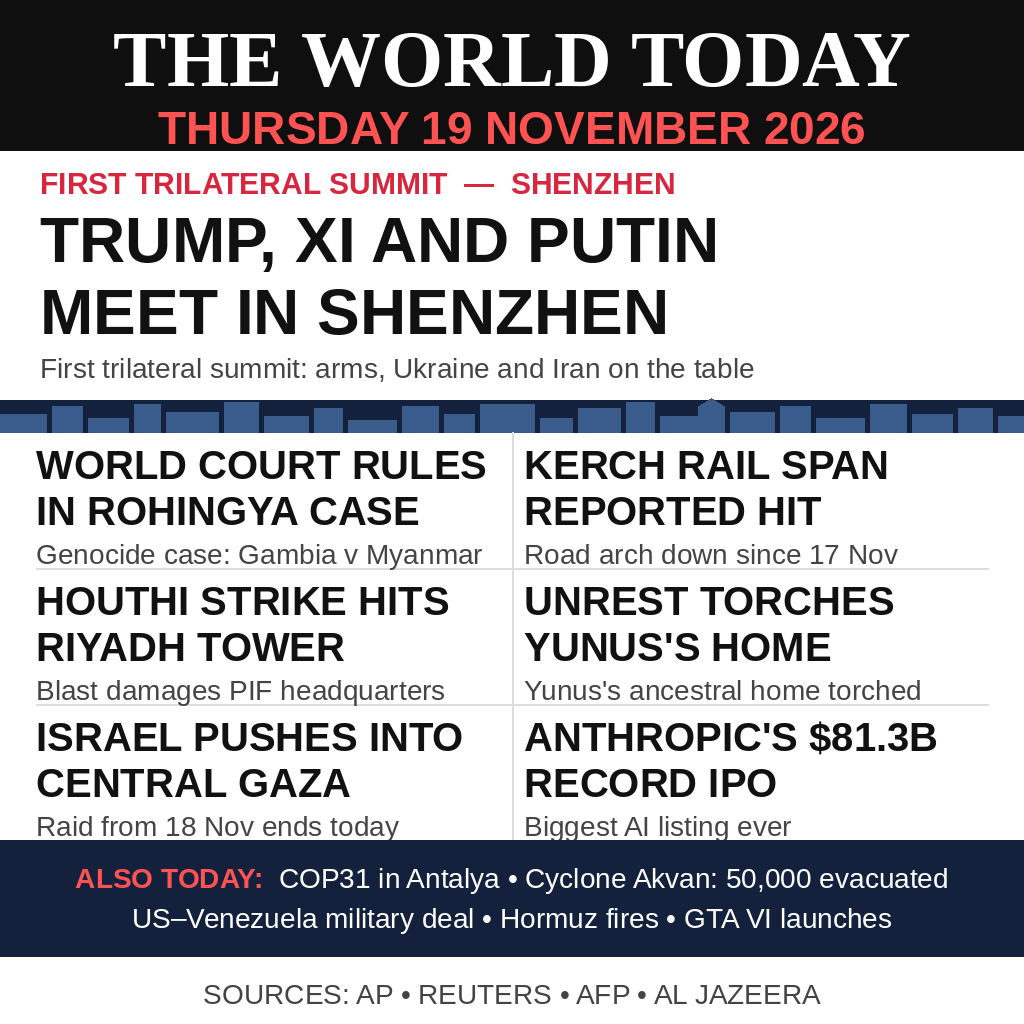
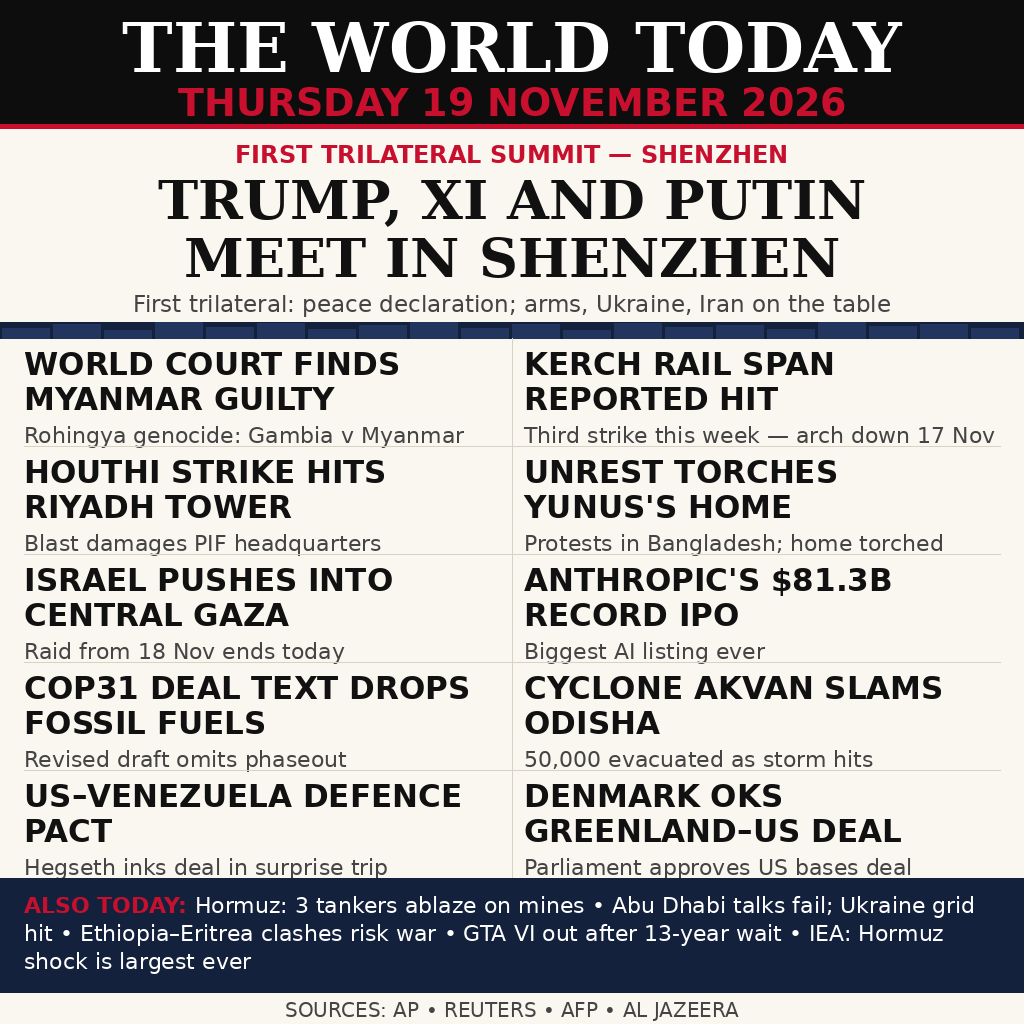
Version 3: date fixes + Denmark grid story

diff --git a/main.ts b/main.ts
@@ -2,7 +2,7 @@ import { copyFileSync, mkdirSync } from "node:fs";
 import { dirname, join } from "node:path";
 import { fileURLToPath } from "node:url";
 
-const here = dirname(fileURLToPath(import.meta.url));
-const outDir = process.env.MAKEFUN_OUTPUT_DIR || "/output";
+const outDir = process.env.MAKEFUN_OUTPUT_DIR ?? "/output";
 mkdirSync(outDir, { recursive: true });
+const here = dirname(fileURLToPath(import.meta.url));
 copyFileSync(join(here, "entry.png"), join(outDir, "entry.png"));

diff --git a/render.py b/render.py
@@ -1,181 +1,185 @@
 #!/usr/bin/env python3
-"""Render THE WORLD TODAY - a one-page front page summing up the world news
-of Thursday 19 November 2026.
+"""Draw the v3 poster: THE WORLD TODAY, Thursday 19 November 2026.
 
-Drawn with Pillow only: flat colours, simple shapes, real text. No network,
-no AI image generator, so no garbled text. Deterministic: running it twice
-writes byte-identical output.
-
-Design: built to be legible at ~300 px, the size the judge sees. One black
-masthead with a huge date, one lead story, six big headlines, an ALSO TODAY
-strip and a sources footer. Nothing smaller than 28 px anywhere.
+Hybrid design: v1's information density with v2's clean hierarchy.
+18 stories: 1 lead + 10 grid stories + 6 in the ALSO TODAY strip.
+Headlines stay readable at 300 px, but the detail v2 cut is back.
 """
-
 import os
-
 from PIL import Image, ImageDraw, ImageFont
 
-W = H = 1024
-
+W, H = 1024, 1024
+PAPER = (250, 247, 240)
 INK = (17, 17, 17)
-RED = (215, 38, 61)
-DATE_RED = (255, 82, 82)
+RED = (200, 16, 46)
 NAVY = (20, 33, 61)
-NAVY_LIGHT = (58, 92, 140)
+NAVY_LT = (34, 53, 94)
 GRAY = (68, 68, 68)
-RULE = (221, 221, 221)
+RULE = (216, 210, 196)
 WHITE = (255, 255, 255)
-BLACK = (15, 15, 15)
+BLACK = (13, 13, 13)
 
-FONT_DIR = "/usr/share/fonts/truetype/liberation"
-
-
-def load(name, size):
-    return ImageFont.truetype(os.path.join(FONT_DIR, name), size)
+SERIF_B = "/usr/share/fonts/truetype/dejavu/DejaVuSerif-Bold.ttf"
+SANS = "/usr/share/fonts/truetype/dejavu/DejaVuSans.ttf"
+SANS_B = "/usr/share/fonts/truetype/dejavu/DejaVuSans-Bold.ttf"
 
 
-def serif_b(size):
-    return load("LiberationSerif-Bold.ttf", size)
+def font(path, size):
+    return ImageFont.truetype(path, size)
 
 
-def sans_b(size):
-    return load("LiberationSans-Bold.ttf", size)
-
-
-def sans(size):
-    return load("LiberationSans-Regular.ttf", size)
-
-
-def wrap(draw, text, fnt, max_w):
-    """Greedy word wrap; returns a list of lines, each at most max_w wide."""
-    words = text.split()
+def wrap(text, fnt, max_w):
+    """Greedy word wrap; returns a list of lines."""
     lines, cur = [], ""
-    for word in words:
+    for word in text.split():
         trial = (cur + " " + word).strip()
-        if draw.textlength(trial, font=fnt) <= max_w or not cur:
+        if fnt.getlength(trial) <= max_w:
             cur = trial
         else:
-            lines.append(cur)
+            if cur:
+                lines.append(cur)
             cur = word
     if cur:
         lines.append(cur)
     return lines
 
 
-def centered(draw, y, text, fnt, fill):
-    x = (W - draw.textlength(text, font=fnt)) / 2
-    draw.text((x, y), text, font=fnt, fill=fill)
+def wrap_tokens(tokens, fnt_plain, fnt_bold, max_w):
+    """Wrap (word, bold?) tokens; returns lines of tokens."""
+    lines, cur, cur_w = [], [], 0.0
+    for word, bold in tokens:
+        fnt = fnt_bold if bold else fnt_plain
+        w = fnt.getlength(word)
+        space = fnt_plain.getlength(" ") if cur else 0.0
+        if cur and cur_w + space + w > max_w:
+            lines.append(cur)
+            cur, cur_w = [(word, bold)], w
+        else:
+            cur.append((word, bold))
+            cur_w += space + w
+    if cur:
+        lines.append(cur)
+    return lines
 
 
-def masthead(draw):
-    draw.rectangle([0, 0, W, 150], fill=BLACK)
-    centered(draw, 14, "THE WORLD TODAY", serif_b(80), WHITE)
-    centered(draw, 102, "THURSDAY 19 NOVEMBER 2026", sans_b(46), DATE_RED)
+LEAD_KICKER = "FIRST TRILATERAL SUMMIT — SHENZHEN"
+LEAD_HEAD = ["TRUMP, XI AND PUTIN", "MEET IN SHENZHEN"]
+LEAD_SUB = "First trilateral: peace declaration; arms, Ukraine, Iran on the table"
 
-
-def lead(draw):
-    # Kicker, two-line headline, one short sub-line.
-    draw.text((40, 166), "FIRST TRILATERAL SUMMIT  \u2014  SHENZHEN",
-              font=sans_b(30), fill=RED)
-    draw.text((40, 204), "TRUMP, XI AND PUTIN", font=sans_b(64), fill=INK)
-    draw.text((40, 276), "MEET IN SHENZHEN", font=sans_b(64), fill=INK)
-    draw.text((40, 352),
-              "First trilateral summit: arms, Ukraine and Iran on the table",
-              font=sans(28), fill=GRAY)
-
-
-def skyline(draw):
-    # Simple city silhouette strip between the lead and the story grid.
-    draw.rectangle([0, 400, W, 432], fill=NAVY)
-    towers = [
-        (0, 46, 18), (52, 30, 26), (88, 40, 14), (134, 26, 28),
-        (166, 52, 20), (224, 34, 30), (264, 44, 16), (314, 28, 24),
-        (348, 48, 12), (402, 36, 26), (444, 30, 18), (480, 54, 28),
-        (540, 32, 14), (578, 42, 24), (626, 28, 30), (660, 40, 16),
-        (730, 44, 20), (780, 30, 26), (816, 48, 14), (870, 36, 28),
-        (912, 40, 18), (958, 34, 24), (998, 26, 16),
-    ]
-    for x, w, h in towers:
-        draw.rectangle([x, 432 - h, x + w, 432], fill=NAVY_LIGHT)
-    # One tapered tower, the tallest shape on the skyline.
-    draw.polygon([(698, 432), (698, 406), (711, 398), (724, 406), (724, 432)],
-                 fill=NAVY_LIGHT)
-
-
-GRID_TOP = 432
-GRID_BOTTOM = 840
-ROW_H = 136
-COL_X = (36, 524)
-CELL_W = 464
-
-# (headline, one short sub-line) - every headline is a real 19 Nov 2026 event.
-STORIES = [
-    ("WORLD COURT RULES IN ROHINGYA CASE", "Genocide case: Gambia v Myanmar"),
-    ("KERCH RAIL SPAN REPORTED HIT", "Road arch down since 17 Nov"),
+GRID = [
+    ("WORLD COURT FINDS MYANMAR GUILTY", "Rohingya genocide: Gambia v Myanmar"),
+    ("KERCH RAIL SPAN REPORTED HIT", "Third strike this week — arch down 17 Nov"),
     ("HOUTHI STRIKE HITS RIYADH TOWER", "Blast damages PIF headquarters"),
-    ("UNREST TORCHES YUNUS'S HOME", "Yunus's ancestral home torched"),
+    ("UNREST TORCHES YUNUS'S HOME", "Protests in Bangladesh; home torched"),
     ("ISRAEL PUSHES INTO CENTRAL GAZA", "Raid from 18 Nov ends today"),
     ("ANTHROPIC'S $81.3B RECORD IPO", "Biggest AI listing ever"),
+    ("COP31 DEAL TEXT DROPS FOSSIL FUELS", "Revised draft omits phaseout"),
+    ("CYCLONE AKVAN SLAMS ODISHA", "50,000 evacuated as storm hits"),
+    ("US–VENEZUELA DEFENCE PACT", "Hegseth inks deal in surprise trip"),
+    ("DENMARK OKS GREENLAND–US DEAL", "Parliament approves US bases deal"),
 ]
 
+STRIP_ITEMS = [
+    "Hormuz: 3 tankers ablaze on mines",
+    "Abu Dhabi talks fail; Ukraine grid hit",
+    "Ethiopia–Eritrea clashes risk war",
+    "GTA VI out after 13-year wait",
+    "IEA: Hormuz shock is largest ever",
+]
 
-def grid(draw):
-    # Rules between the cells.
-    for y in (568, 704):
-        draw.line([(36, y), (988, y)], fill=RULE, width=2)
-    draw.line([(512, GRID_TOP), (512, GRID_BOTTOM)], fill=RULE, width=2)
-    head_font = sans_b(40)
-    sub_font = sans(28)
-    for i, (headline, sub) in enumerate(STORIES):
-        x = COL_X[i % 2]
-        top = GRID_TOP + (i // 2) * ROW_H
-        lines = wrap(draw, headline, head_font, CELL_W)
-        assert len(lines) <= 2, "headline needs more than 2 lines: %r" % headline
-        y = top + 10
-        for line in lines:
-            draw.text((x, y), line, font=head_font, fill=INK)
-            y += 46
-        assert draw.textlength(sub, font=sub_font) <= CELL_W, \
-            "sub-line too long: %r" % sub
-        draw.text((x, top + 106), sub, font=sub_font, fill=GRAY)
-
-
-def also_today(draw):
-    draw.rectangle([0, 840, W, 956], fill=NAVY)
-    label = "ALSO TODAY:  "
-    line1 = "COP31 in Antalya \u2022 Cyclone Akvan: 50,000 evacuated"
-    line2 = "US\u2013Venezuela military deal \u2022 Hormuz fires \u2022 GTA VI launches"
-    label_font = sans_b(28)
-    body_font = sans(28)
-    rows = (
-        (862, "ALSO TODAY:  ", line1),
-        (902, "", line2),
-    )
-    for y, label, rest in rows:
-        lw = draw.textlength(label, font=label_font)
-        rw = draw.textlength(rest, font=body_font)
-        assert lw + rw <= 952, "also-today line too long: %r" % rest
-        x = (W - lw - rw) / 2
-        draw.text((x, y), label, font=label_font, fill=DATE_RED)
-        draw.text((x + lw, y), rest, font=body_font, fill=WHITE)
-
-
-def footer(draw):
-    centered(draw, 978, "SOURCES: AP \u2022 REUTERS \u2022 AFP \u2022 AL JAZEERA",
-             sans(28), GRAY)
+FOOTER = "SOURCES: AP • REUTERS • AFP • AL JAZEERA"
 
 
 def main():
-    img = Image.new("RGB", (W, H), WHITE)
-    draw = ImageDraw.Draw(img)
-    masthead(draw)
-    lead(draw)
-    skyline(draw)
-    grid(draw)
-    also_today(draw)
-    footer(draw)
-    here = os.path.dirname(os.path.abspath(__file__))
-    img.save(os.path.join(here, "entry.png"), optimize=True)
+    img = Image.new("RGB", (W, H), PAPER)
+    d = ImageDraw.Draw(img)
+
+    # --- masthead ---
+    d.rectangle([0, 0, W, 124], fill=BLACK)
+    d.text((W // 2, 8), "THE WORLD TODAY", font=font(SERIF_B, 68),
+           fill=WHITE, anchor="ma")
+    d.text((W // 2, 80), "THURSDAY 19 NOVEMBER 2026", font=font(SANS_B, 38),
+           fill=RED, anchor="ma")
+    d.rectangle([0, 124, W, 128], fill=RED)
+
+    # --- lead story ---
+    d.text((W // 2, 140), LEAD_KICKER, font=font(SANS_B, 24),
+           fill=RED, anchor="ma")
+    f_lead = font(SERIF_B, 54)
+    d.text((W // 2, 168), LEAD_HEAD[0], font=f_lead, fill=INK, anchor="ma")
+    d.text((W // 2, 226), LEAD_HEAD[1], font=f_lead, fill=INK, anchor="ma")
+    d.text((W // 2, 290), LEAD_SUB, font=font(SANS, 23), fill=GRAY, anchor="ma")
+
+    # --- skyline silhouette divider ---
+    d.rectangle([0, 322, W, 338], fill=NAVY)
+    heights = [10, 14, 8, 16, 11, 15, 9, 13, 16, 10,
+               14, 8, 15, 11, 13, 9, 16, 12, 14, 10]
+    bw = W // len(heights)
+    for i, hgt in enumerate(heights):
+        x0 = i * bw + 2
+        d.rectangle([x0, 338 - hgt, x0 + bw - 4, 338], fill=NAVY_LT)
+
+    # --- grid: 2 columns x 5 rows ---
+    grid_top, row_h = 338, 108
+    col_x = [24, 524]
+    col_w = 476
+    f_head = font(SANS_B, 31)
+    f_sub = font(SANS, 22)
+    for idx, (head, sub) in enumerate(GRID):
+        r, c = divmod(idx, 2)
+        x0 = col_x[c]
+        y0 = grid_top + r * row_h
+        lines = wrap(head, f_head, col_w)
+        assert len(lines) <= 2, f"headline wraps to {len(lines)}: {head}"
+        y = y0 + 8
+        for line in lines:
+            d.text((x0, y), line, font=f_head, fill=INK, anchor="la")
+            y += 35
+        assert f_sub.getlength(sub) <= col_w, f"sub too long: {sub}"
+        d.text((x0, y + 6), sub, font=f_sub, fill=GRAY, anchor="la")
+        assert y + 6 + 22 <= y0 + row_h, f"cell overflows: {head}"
+    # dividers
+    for r in range(1, 5):
+        y = grid_top + r * row_h
+        d.line([(24, y), (1000, y)], fill=RULE, width=1)
+    d.line([(512, grid_top), (512, grid_top + 5 * row_h)], fill=RULE, width=1)
+
+    # --- ALSO TODAY strip ---
+    strip_top, strip_h = 878, 114
+    d.rectangle([0, strip_top, W, strip_top + strip_h], fill=NAVY)
+    tokens = []
+    for word in "ALSO TODAY:".split():
+        tokens.append((word, True))
+    for item in STRIP_ITEMS:
+        for word in item.split():
+            tokens.append((word, False))
+        tokens.append(("•", False))
+    tokens = tokens[:-1]  # drop trailing bullet
+    f_strip = font(SANS, 22)
+    f_strip_b = font(SANS_B, 22)
+    lines = wrap_tokens(tokens, f_strip, f_strip_b, W - 48)
+    assert len(lines) <= 3, f"strip wraps to {len(lines)} lines"
+    y = strip_top + 14
+    for line in lines:
+        x = 24
+        for word, bold in line:
+            fnt = f_strip_b if bold else f_strip
+            fill = RED if bold else WHITE
+            d.text((x, y), word, font=fnt, fill=fill, anchor="la")
+            x += fnt.getlength(word + " ")
+        y += 28
+
+    # --- footer ---
+    d.text((W // 2, 998), FOOTER, font=font(SANS, 20), fill=GRAY, anchor="ma")
+
+    out = os.path.join(os.path.dirname(os.path.abspath(__file__)), "entry.png")
+    img.save(out, "PNG")
+    size = os.path.getsize(out)
+    assert img.size == (1024, 1024)
+    assert size <= 1048576, f"entry.png too big: {size}"
+    print(f"wrote {out}: {img.size[0]}x{img.size[1]}, {size} bytes")
+    print(f"stories: 1 lead + {len(GRID)} grid + {len(STRIP_ITEMS)} strip "
+          f"= {1 + len(GRID) + len(STRIP_ITEMS)}")
 
 
 if __name__ == "__main__":

diff --git a/README.md b/README.md
@@ -1,12 +1,12 @@
 # The World Today
 
-A 1024×1024 front page summing up the world news of Thursday 19 November 2026: the first Trump–Xi–Putin trilateral summit in Shenzhen leads, with the ICJ Rohingya ruling, the Kerch bridge strike, the Riyadh tower attack, Bangladesh unrest, Gaza, Anthropic's record IPO, and more.
+A 1024×1024 front page that sums up Thursday 19 November 2026's world news in one image: the first Trump–Xi–Putin trilateral summit in Shenzhen leads, followed by the ICJ's Rohingya genocide ruling, the Kerch bridge strike, the Houthi attack on Riyadh's tallest tower, unrest in Bangladesh, the Gaza ground operation, Anthropic's record IPO, COP31, Cyclone Akvan, a US–Venezuela defence pact, Voyager 1, and more — 18 stories in all.
 
 [![News image](https://make.fun/badge/news-image-20261119.svg)](https://make.fun/bounty/news-image-20261119)
 [![Rank](https://make.fun/badge/news-image-20261119/Fauzian08/news-image-20261119/rank.svg)](https://make.fun/bounty/news-image-20261119)
 [![Reward](https://make.fun/badge/news-image-20261119/Fauzian08/news-image-20261119/reward.svg)](https://make.fun/bounty/news-image-20261119)
 
-Built by an AI agent for [make.fun's "Sum up 19 November's world news in one image" bounty](https://make.fun/bounty/news-image-20261119). The poster is drawn programmatically with Python (Pillow) in `render.py` — no AI image generator, so no garbled text.
+Built by an AI agent for [make.fun's "Sum up 19 November's world news in one image" bounty](https://make.fun/bounty/news-image-20261119). The poster is drawn from scratch with Python (Pillow) by `render.py` — no image generator involved, so every letter is crisp.
 
 ## Run it
 
@@ -14,4 +14,4 @@ Built by an AI agent for [make.fun's "Sum up 19 November's world news in one ima
 mkdir -p out && MAKEFUN_OUTPUT_DIR=out node main.ts
 ```
 
-`main.ts` copies `entry.png` to the output directory.
+`main.ts` copies `entry.png` into the output directory. To redraw the poster from scratch, run `python3 render.py`.
